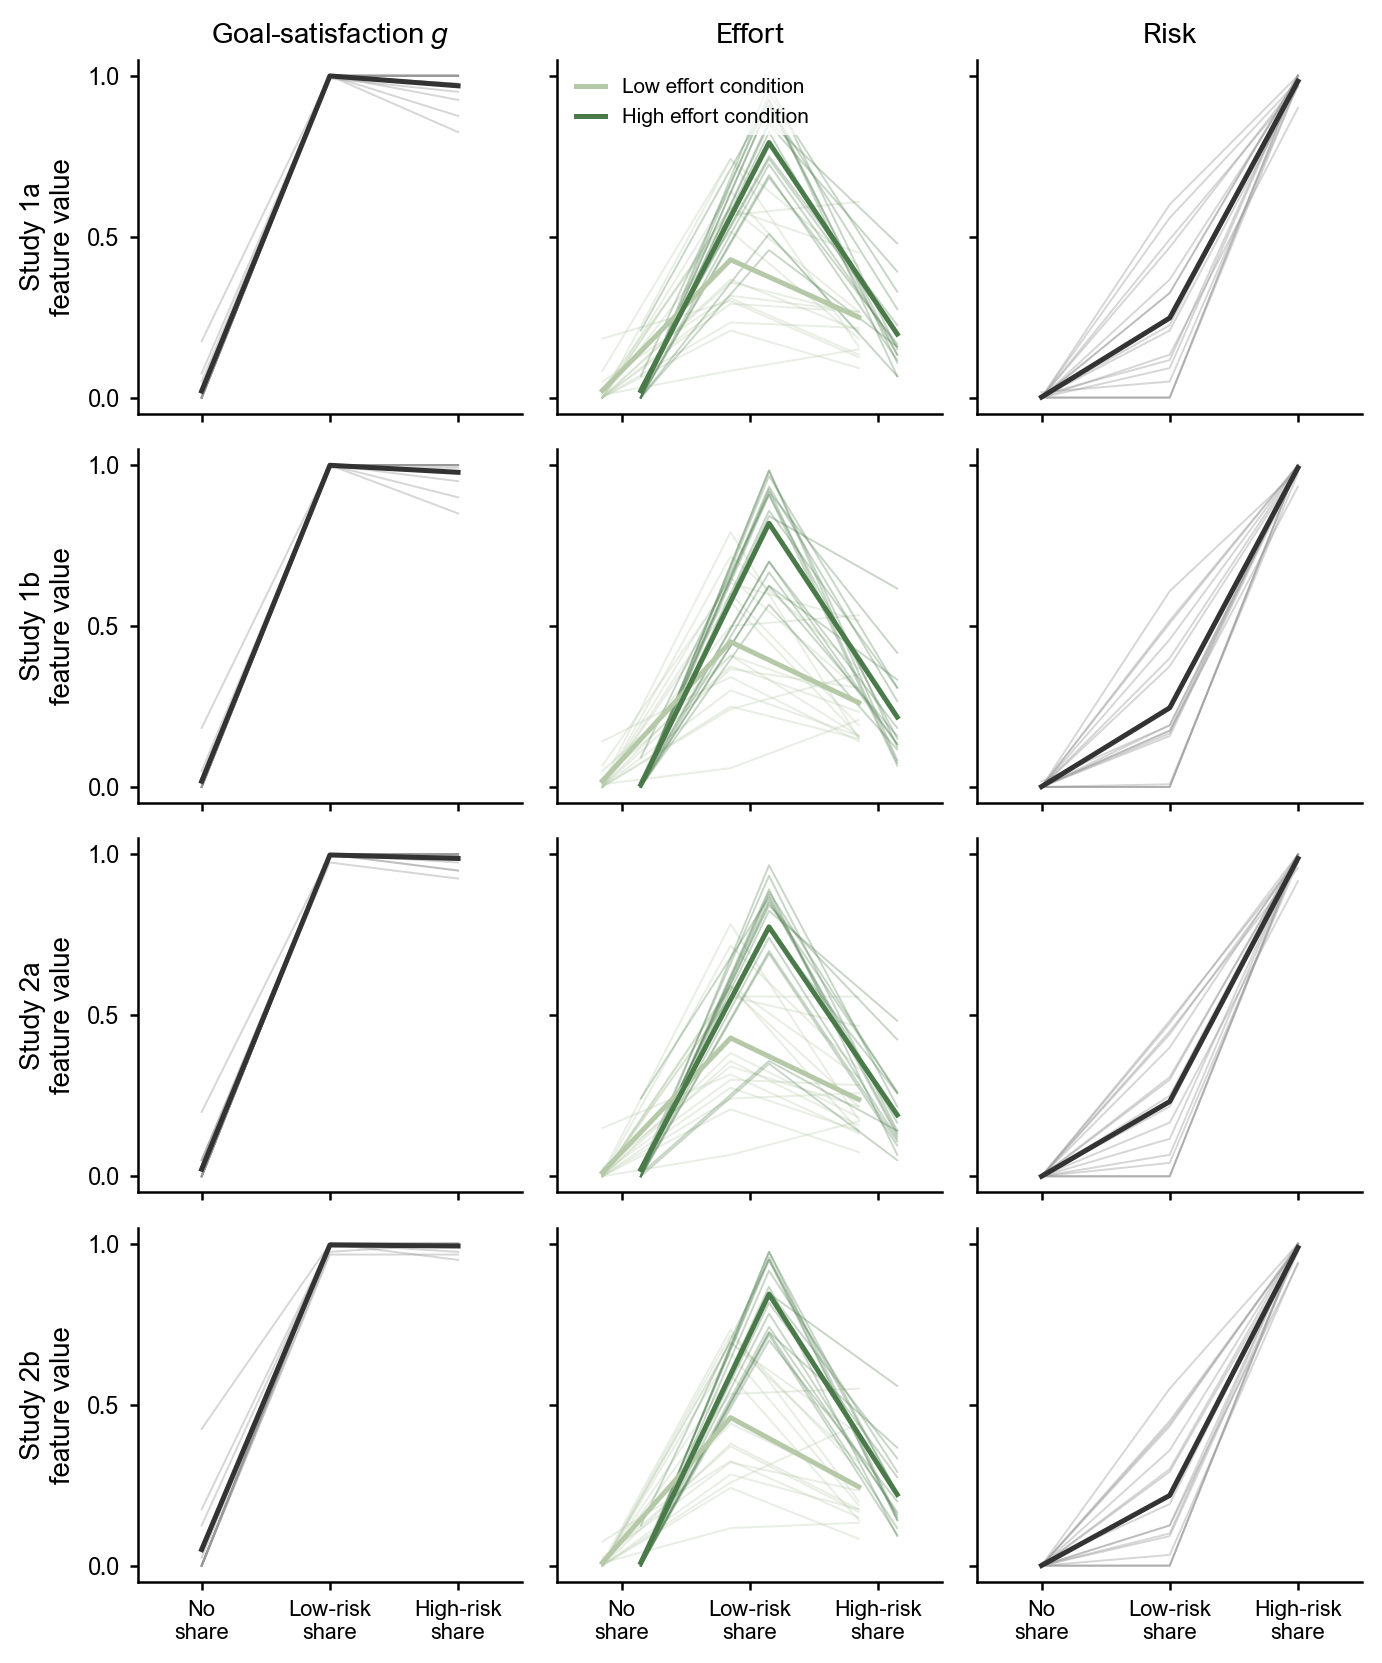
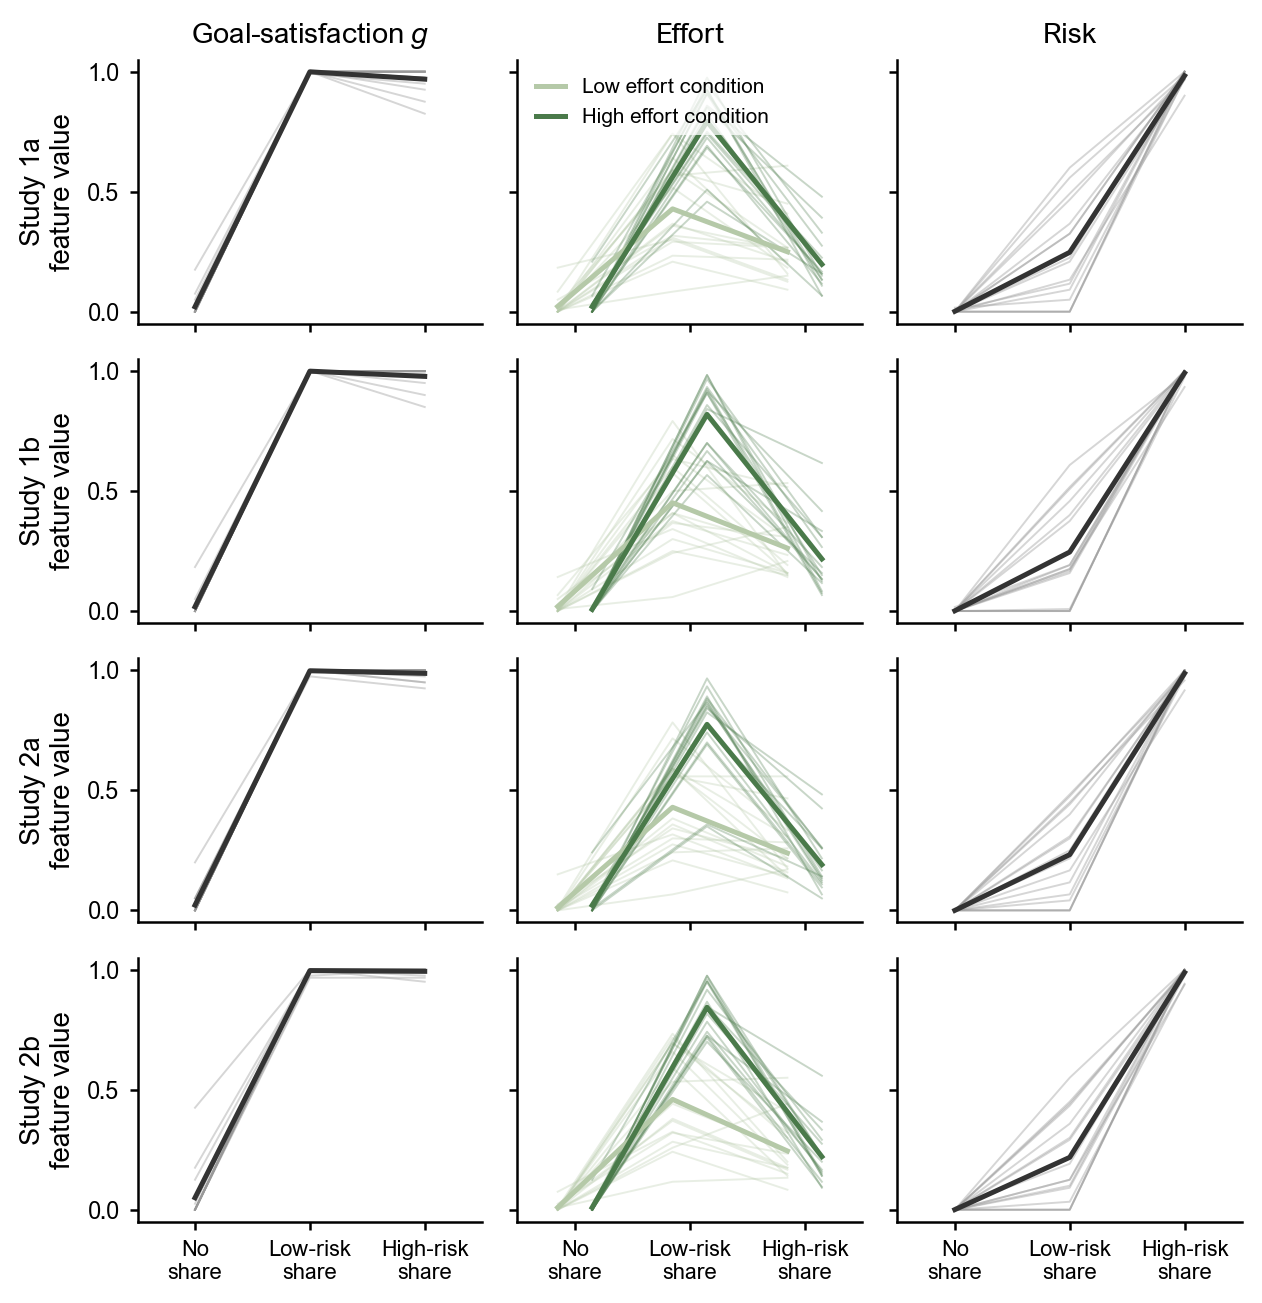
simplify SI canonical-scatter legend, refresh SI validation figures

diff --git a/model/lm/plot_si_validation.py b/model/lm/plot_si_validation.py
@@ -44,7 +44,6 @@ import matplotlib.pyplot as plt
 import numpy as np
 import pandas as pd
 from matplotlib.lines import Line2D
-from matplotlib.offsetbox import DrawingArea
 
 sys.path.insert(0, str(Path(__file__).resolve().parent.parent.parent))
 from plot_style import (  # noqa: E402
@@ -109,7 +108,7 @@ def fig_feature_structure(canon):
     """Rows = studies, columns = risk / g / effort; thin per-scenario lines."""
     xpos = {a: i for i, a in enumerate(CANONICAL_ACTIONS)}
     fig, axes = plt.subplots(
-        len(STUDIES), 3, figsize=(7.0, 8.4), sharex=True, sharey=True
+        len(STUDIES), 3, figsize=(6.4, 6.6), sharex=True, sharey=True
     )
 
     def draw_lines(ax, per_scenario, mean_line, color=None, xoff=0.0, label=None):
@@ -406,13 +405,7 @@ def fig_canonical_scatter(canon):
             label="Low effort condition",
         ),
     ]
-    leg = ax.legend(
-        handles=handles,
-        loc="upper right",
-        fontsize=9.5,
-        handletextpad=0.3,
-        framealpha=1.0,  # opaque so the scatter behind doesn't bleed through
-    )
+    ax.legend(handles=handles, loc="upper right", fontsize=9.5, handletextpad=0.3)
     ax.set_xlabel("Risk", fontsize=13)
     ax.set_ylabel("Effort", fontsize=13)
     ax.tick_params(labelsize=11)
@@ -422,32 +415,6 @@ def fig_canonical_scatter(canon):
     ax.set_yticks([0, 0.5, 1])
     ax.set_box_aspect(1)
     fig.tight_layout()
-
-    # link the two effort-condition legend markers (high effort filled, low
-    # effort open) with a thin grey line, so the reader reads the grey connectors
-    # in the scatter as "same scenario, two effort conditions". The segment spans
-    # only the gap between the two circles (from edge to edge, not center to
-    # center), so it reads as passing behind them without redrawing the markers.
-    fig.canvas.draw()
-    handle_areas = leg.findobj(DrawingArea)
-    if len(handle_areas) >= 2:
-        inv = ax.transAxes.inverted()
-        (x0, y0), (x1, y1) = [
-            inv.transform((0.5 * (e.x0 + e.x1), 0.5 * (e.y0 + e.y1)))
-            for e in (a.get_window_extent() for a in handle_areas[-2:])
-        ]
-        # marker radius (ms=7 -> 3.5 pt) in axes-fraction y, to stop the segment
-        # at each circle's edge
-        r = (3.5 * fig.dpi / 72) / ax.get_window_extent().height
-        ax.plot(
-            [x0, x1],
-            [y0 - r, y1 + r],
-            color="#BBBBBB",
-            lw=0.8,
-            zorder=6,
-            transform=ax.transAxes,
-            clip_on=False,
-        )
     return savefig(fig, "si_lm_canonical_scatter")
 
 
